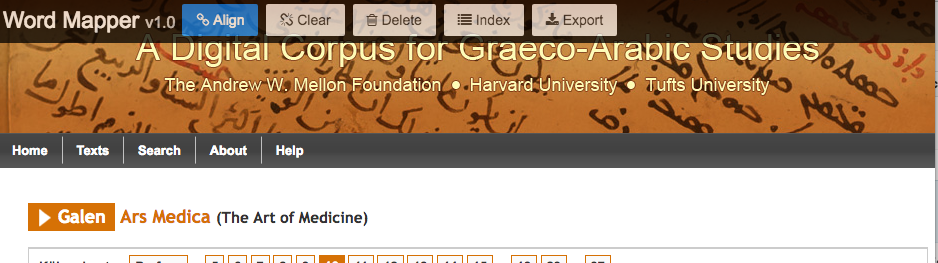
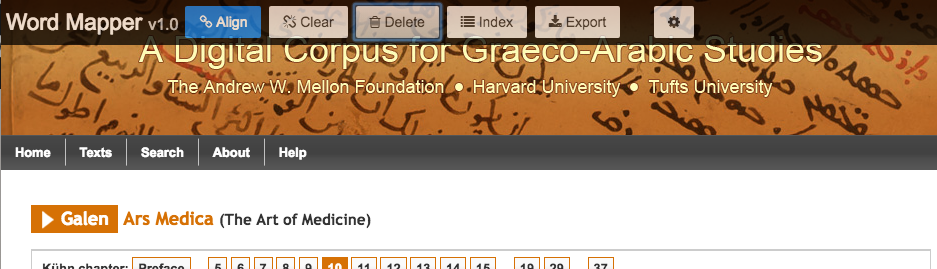
WordMapper_widget_settings, proposed screen and UI

Changed region(s): [[0.0, 0.0, 1.0, 1.0], [0.0309, 0.7605, 0.4023, 0.8821]]

diff --git a/WordMapper_widget_settings/index.html b/WordMapper_widget_settings/index.html
@@ -7,10 +7,14 @@
 		  </div>
 		  <div class="wordmapper-buttons">
 		    <button name="align" class="primary wordmapper-tooltip" alt="Align highlighted words"><i class="fa fa-link"></i> Align</button>
-		    <button name="clear_highlights" class="wordmapper-tooltip" alt="Clear highlighted words"><i class="fa fa-unlink"></i> Clear</button>
+		    <button name="clear_highlights" class="wordmapper-tooltip" alt="Clear highlighted words" style="opacity: 1;"><i class="fa fa-unlink"></i> Clear</button>
 		    <button name="clear_alignments" class="wordmapper-tooltip" alt="Delete alignments" data-confirm="Are you sure you want to delete *ALL* alignments on this page?"><i class="fa fa-trash-o"></i> Delete</button>
 		    <button name="build_index" class="wordmapper-tooltip" alt="Build index of alignments"><i class="fa fa-list"></i> Index</button>
 		    <button name="export" class="wordmapper-tooltip" alt="Export the alignments"><i class="fa fa-download"></i> Export</button>
+
+<!-- UI comment - add Settings icon -->
+		    <button name="export" class="wordmapper-tooltip" alt="Settings" style="margin-left: 2em"><i class="fa fa-gear"></i></button>
+
 		  </div>
 		</div>
 		</div><div>
